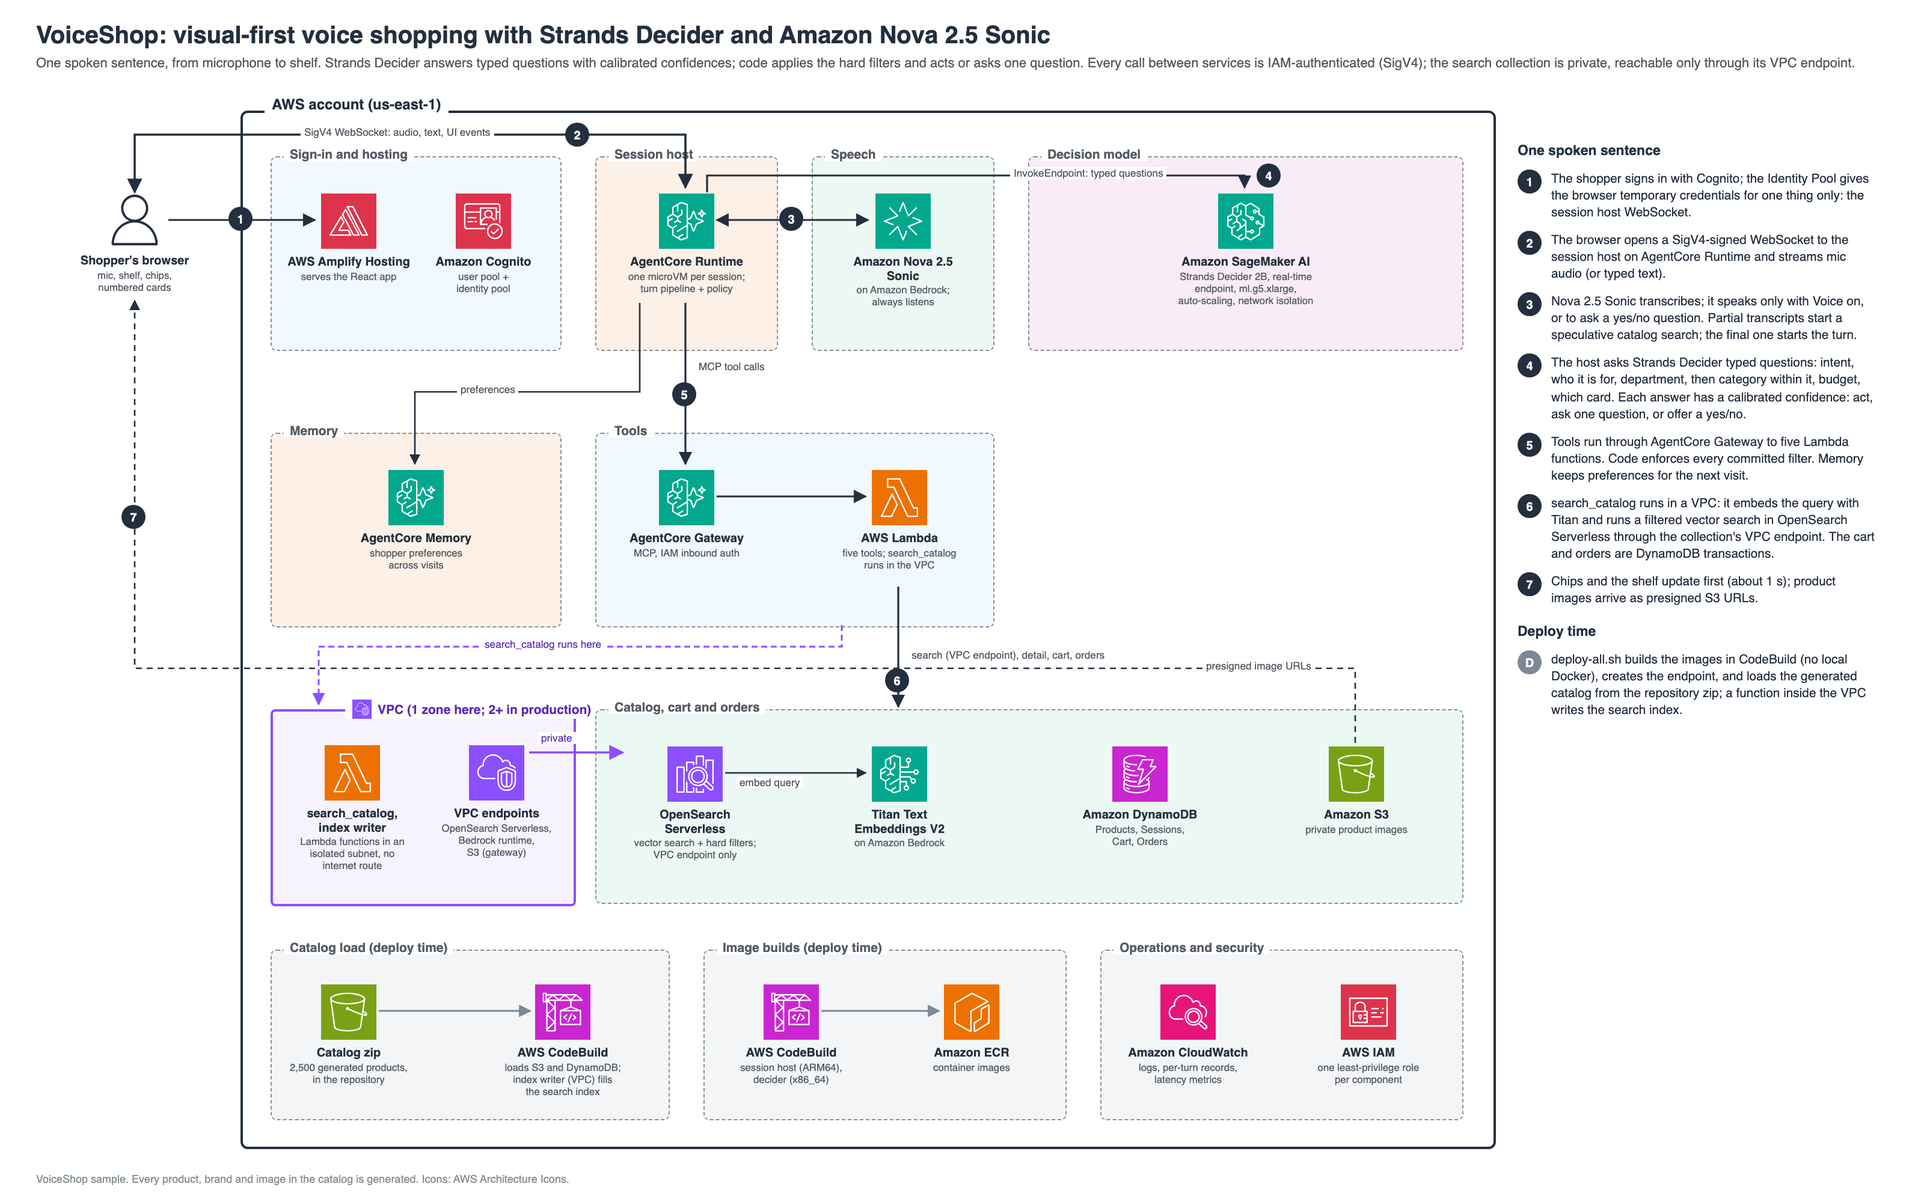
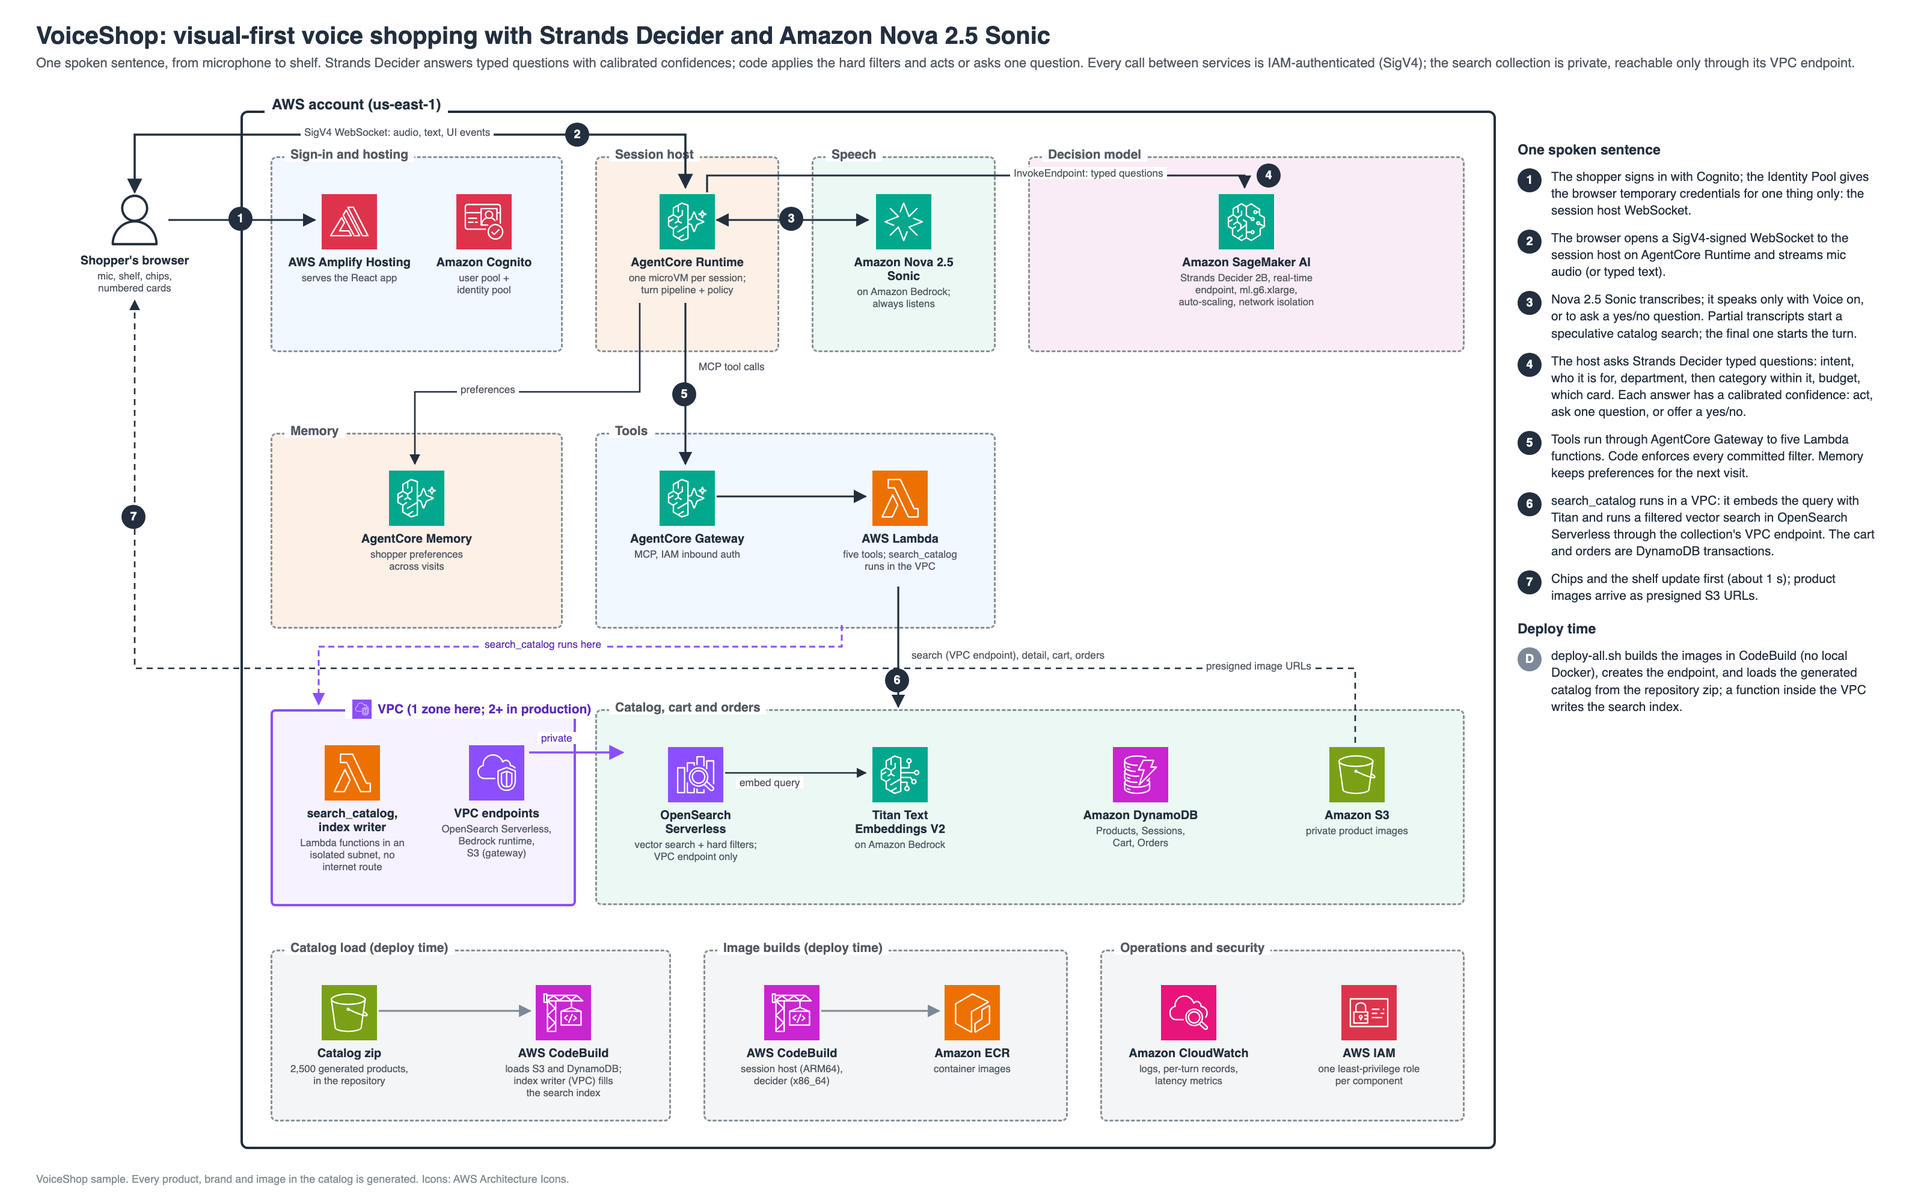
Default decider instance ml.g6.xlarge (same answers and latency as g5, $822 vs $1,028/month); README cart behavior
- deploy-all.sh, CDK app and cdk.json default g6.xlarge; g5.xlarge is the documented fallback
- ADR-22 amendment with the 2026-10-21 comparison; known issue: changing the type of a
  deployed endpoint needs the endpoint stack deleted first
- README: cost table (~$1,092/month), quota, cart (add another, remove one of several)
- architecture diagram re-rendered

diff --git a/backend/decider-runtime/cdk/test/decider-stacks.test.ts b/backend/decider-runtime/cdk/test/decider-stacks.test.ts
@@ -13,7 +13,7 @@ const endpoint = new DeciderEndpointStack(app, 'Endpoint', {
   repository: infra.repository,
   modelBucket: infra.modelBucket,
   imageTag: 'sm-test',
-  instanceType: 'g5.xlarge',
+  instanceType: 'g6.xlarge',
   minInstances: 1,
   maxInstances: 3,
   invocationsPerInstanceTarget: 120,
@@ -40,10 +40,10 @@ test('model runs with network isolation and no VPC, weights mounted from model/'
   });
 });
 
-test('endpoint uses ml.g5.xlarge with the minimum warm and long startup timeouts', () => {
+test('endpoint uses ml.g6.xlarge with the minimum warm and long startup timeouts', () => {
   t.hasResourceProperties('AWS::SageMaker::EndpointConfig', {
     ProductionVariants: [Match.objectLike({
-      InstanceType: 'ml.g5.xlarge', InitialInstanceCount: 1, ContainerStartupHealthCheckTimeoutInSeconds: 1800,
+      InstanceType: 'ml.g6.xlarge', InitialInstanceCount: 1, ContainerStartupHealthCheckTimeoutInSeconds: 1800,
     })],
   });
   t.hasResourceProperties('AWS::SageMaker::Endpoint', { EndpointName: 'voiceshop-decider' });

diff --git a/assets/architecture-diagram-source.html b/assets/architecture-diagram-source.html
@@ -66,7 +66,7 @@
   </div>
   <div class="group" style="left:855px;top:130px;width:360px;height:160px;background:#F9ECF6;">
     <div class="group-label" style="left:10px;top:-9px;">Decision model</div>
-    <div class="svc" style="left:80px;top:30px;width:200px;"><img src="icons/sagemaker.svg"/><div class="n">Amazon SageMaker AI</div><div class="d">Strands Decider 2B, real-time<br/>endpoint, ml.g5.xlarge,<br/>auto-scaling, network isolation</div></div>
+    <div class="svc" style="left:80px;top:30px;width:200px;"><img src="icons/sagemaker.svg"/><div class="n">Amazon SageMaker AI</div><div class="d">Strands Decider 2B, real-time<br/>endpoint, ml.g6.xlarge,<br/>auto-scaling, network isolation</div></div>
   </div>
 
   <!-- Row B -->

diff --git a/backend/decider-runtime/cdk/bin/app.ts b/backend/decider-runtime/cdk/bin/app.ts
@@ -41,7 +41,7 @@ const endpoint = new DeciderEndpointStack(app, 'VoiceShop-DeciderEndpointStack',
   repository: infra.repository,
   modelBucket: infra.modelBucket,
   imageTag: app.node.tryGetContext('deciderImageTag') || deciderImageTag(path.join(__dirname, '../../container')),
-  instanceType: app.node.tryGetContext('deciderInstanceType') || 'g5.xlarge',
+  instanceType: app.node.tryGetContext('deciderInstanceType') || 'g6.xlarge',
   minInstances,
   maxInstances,
   invocationsPerInstanceTarget: Number(app.node.tryGetContext('deciderInvocationsPerInstanceTarget') || 120),

diff --git a/README.md b/README.md
@@ -47,7 +47,7 @@ The architecture is split into six sections:
 - the **Amazon ECR** repository;
 - a CodeBuild job that copies the Strands Decider 2B weights from Hugging Face to Amazon S3 once;
 - a CodeBuild job that builds the inference container on an AWS Deep Learning Containers base image;
-- the **Amazon SageMaker AI** real-time endpoint `voiceshop-decider`: ml.g5.xlarge by default, auto-scaling, with network isolation.
+- the **Amazon SageMaker AI** real-time endpoint `voiceshop-decider`: ml.g6.xlarge (NVIDIA L4) by default, auto-scaling, with network isolation.
 
 **Section D: AgentCore Gateway.** A CDK stack creates the **Amazon Bedrock AgentCore Gateway** with MCP and IAM authentication. It exposes five Lambda functions as tools: `search_catalog`, `get_product_detail`, `add_to_cart`, `remove_from_cart` and `place_order`.
 
@@ -72,7 +72,7 @@ The session host (Python, FastAPI) runs the turn pipeline and the decision polic
 
 ### Cost
 
-You are responsible for the cost of the AWS services used while running this sample. As of October 2026, running it with the default settings in the US East (N. Virginia) Region costs approximately $1,297 per month for 3,000 shopping sessions. About 94% of that is fixed: the GPU instance behind the decider endpoint and the OpenSearch Serverless minimum both bill for every hour the sample is deployed, whether or not anyone is shopping. **Run `./cleanup-all.sh` when you finish testing or recording.**
+You are responsible for the cost of the AWS services used while running this sample. As of October 2026, running it with the default settings in the US East (N. Virginia) Region costs approximately $1,092 per month for 3,000 shopping sessions. About 93% of that is fixed: the GPU instance behind the decider endpoint and the OpenSearch Serverless minimum both bill for every hour the sample is deployed, whether or not anyone is shopping. **Run `./cleanup-all.sh` when you finish testing or recording.**
 
 We recommend creating a [Budget](https://docs.aws.amazon.com/cost-management/latest/userguide/budgets-managing-costs.html) through [AWS Cost Explorer](https://aws.amazon.com/aws-cost-management/aws-cost-explorer/) to help manage costs. Prices are subject to change. For full details, refer to the pricing webpage for each AWS service used in this sample.
 
@@ -82,7 +82,7 @@ The following table shows a sample monthly cost breakdown for the default parame
 
 | AWS service | Dimensions | Cost [USD] |
 | ----------- | ---------- | ---------- |
-| [Amazon SageMaker AI](https://aws.amazon.com/sagemaker/ai/pricing/) | Real-time endpoint, 1 × ml.g5.xlarge ($1.408/hour), 730 hours | $1,027.84 |
+| [Amazon SageMaker AI](https://aws.amazon.com/sagemaker/ai/pricing/) | Real-time endpoint, 1 × ml.g6.xlarge ($1.1267/hour), 730 hours | $822.49 |
 | [Amazon OpenSearch Serverless](https://aws.amazon.com/opensearch-service/pricing/) | Vector collection, standby replicas disabled: minimum 1 OCU (0.5 indexing + 0.5 search) at $0.24/OCU-hour, under 1 GB storage | $175.20 |
 | [AWS PrivateLink](https://aws.amazon.com/privatelink/pricing/) | 2 interface endpoints (OpenSearch Serverless, Bedrock runtime) in one Availability Zone, $0.01/hour each | $14.60 |
 | [Amazon Bedrock (Nova 2.5 Sonic)](https://aws.amazon.com/nova/pricing/) | Measured per session: about 1,230 speech input, 400 speech output, 2,000 text input and 300 text output tokens | $30.00 |
@@ -97,10 +97,10 @@ The following table shows a sample monthly cost breakdown for the default parame
 | [Amazon ECR](https://aws.amazon.com/ecr/pricing/) | Decider image (13.5 GB) and session host image | $1.40 |
 | [AWS Amplify](https://aws.amazon.com/amplify/pricing/) | Hosting: 5 GB storage, 15 GB bandwidth | $0.50 |
 | [Amazon CloudWatch](https://aws.amazon.com/cloudwatch/pricing/) | Logs and metrics for all services | $5.00 |
-| | **Estimated Total** | **~$1,297.30** |
+| | **Estimated Total** | **~$1,091.95** |
 
 **Notes:**
-- The decider endpoint is about 80% of the total. On ml.g6.xlarge (`--decider-instance-type g6.xlarge`, $1.1267/hour), it costs about $822 per month instead of $1,028.
+- The decider endpoint is about 75% of the total. ml.g6.xlarge is the smallest full-GPU G6 instance SageMaker AI offers for a real-time endpoint. The fallback ml.g5.xlarge (`--decider-instance-type g5.xlarge`, $1.408/hour) costs about $1,028 per month instead of $822, with the same answers and latency in our tests.
 - Usage-based costs are small: about $78 of the total for 3,000 sessions, mostly Nova 2.5 Sonic and AgentCore Runtime memory time. Turning spoken replies on raises the Nova 2.5 Sonic output-token cost.
 - The measured sessions were test sessions with spoken replies off, so speech output covers only yes/no confirmations. Longer sessions, or spoken replies on, raise the Nova 2.5 Sonic and AgentCore Runtime costs.
 - Each deploy also runs AWS CodeBuild jobs for the image builds and the catalog load (a few dollars per fresh deploy).
@@ -134,7 +134,7 @@ Install the following tools before deployment:
   - create AWS Lambda functions, Amazon DynamoDB tables, Amazon S3 buckets and Amazon ECR repositories;
   - create AWS CodeBuild projects, Amazon Cognito user pools and identity pools, and AWS Amplify apps.
 - Amazon Bedrock model access for **Amazon Nova 2.5 Sonic** and **Amazon Titan Text Embeddings V2**. Request access in the [Amazon Bedrock console](https://console.aws.amazon.com/bedrock/) if it is not already enabled. Anthropic Claude and Stability AI models are needed only to regenerate the catalog ([generator](backend/catalog-data/README.md#generator)).
-- Amazon SageMaker AI quota **"ml.g5.xlarge for endpoint usage"** of at least `--decider-max-instances` (default 1). Find it in [Service Quotas](https://console.aws.amazon.com/servicequotas/). For another `--decider-instance-type`, you need that type's quota instead. New accounts often start at 0. `deploy-all.sh` checks the quota before it deploys anything.
+- Amazon SageMaker AI quota **"ml.g6.xlarge for endpoint usage"** of at least `--decider-max-instances` (default 1). Find it in [Service Quotas](https://console.aws.amazon.com/servicequotas/). For another `--decider-instance-type`, you need that type's quota instead. New accounts often start at 0. `deploy-all.sh` checks the quota before it deploys anything.
 
 ### AWS CDK bootstrap
 
@@ -171,7 +171,7 @@ chmod +x deploy-all.sh cleanup-all.sh codebuild-scripts/build-image.sh
 
 **Optional parameters:**
 - `--user-name`: display name of the demo user (default `AppUser`). The sign-in username is always `AppUser`.
-- `--decider-instance-type`: the decider GPU instance, without `ml.` (default `g5.xlarge`; `g6.xlarge` and `g6e.xlarge` also work).
+- `--decider-instance-type`: the decider GPU instance, without `ml.` (default `g6.xlarge`; `g5.xlarge` and `g6e.xlarge` also work). To change the type of a deployed endpoint, see [Known issues](#known-issues).
 - `--decider-max-instances`: the upper bound for decider auto-scaling (default 1). It must not exceed your quota.
 - `--skip-catalog`: skip loading the catalog.
 
@@ -364,7 +364,7 @@ What you can do:
 - **More results and moving around.** "Show me more" adds the next 12 results, up to 49. "Scroll down" and "back to the top" move the page. "Close it" closes the open product.
 - **No match.** The closest items stay on screen, and the assistant offers to drop one filter. Say "yes" to widen the search.
 - **Yes/no questions.** They show Yes and No buttons. If the browser already allows the microphone for the site, it opens by itself so you can answer by voice.
-- **Cart.** Say "add it to my cart". Remove a line by voice ("remove the blouse from my cart") or with its ×. "Empty my cart" asks first.
+- **Cart.** Say "add it to my cart". If the item is already in the cart, the assistant asks "Should I add another one?" first. Remove an item by voice ("remove the blouse from my cart") or with its ×. When the cart holds more than one of an item, "remove one" takes out one and keeps the rest, and "remove both" takes out the line. "Empty my cart" asks first.
 - **Orders.** "Place my order" always asks "Should I place the order?" first. If the cart is empty, the assistant says so. An order is a DynamoDB record, and nothing is charged.
 - **Voice on / Voice off.** Spoken replies are off by default, and the chat shows the reply text instead. The header toggle turns spoken replies on. Yes/no confirmations are spoken either way.
 - **Behind the scenes.** Press **D**, or use **Debug overlay** in the footer, to see each sentence's decider questions and answers, catalog searches, DynamoDB writes and timings. **Pop out** moves the panel to its own window, for example to keep it beside the store while you record.
@@ -513,7 +513,8 @@ Strands Decider weights are licensed under Apache-2.0. Every product, brand, des
 - **The first request after a deploy is slow.** The first decider request can take several seconds while the GPU kernels compile, even after the pre-warm. Say one or two sentences before a demo.
 - **The mic does not open by itself for a yes/no question.** It opens automatically only after the browser has allowed the microphone for this site. Each new Amplify URL is a new site: click the mic once and allow it.
 - **No mic audio with a Bluetooth headset on macOS.** The browser may receive silence until the device is selected again. Re-select the headset as the input in the system sound settings or the browser, or use the built-in microphone.
-- **"InsufficientInstanceCapacity" when the endpoint is created.** AWS has no free GPUs of that type in the Region at the moment. Re-run with another type, for example `--decider-instance-type g6.xlarge`, or retry later.
+- **"InsufficientInstanceCapacity" when the endpoint is created.** AWS has no free GPUs of that type in the Region at the moment. Re-run with another type, for example `--decider-instance-type g5.xlarge`, or retry later.
+- **Changing `--decider-instance-type` on a deployed endpoint fails** with "must be deregistered as scalable targets with Application Auto Scaling before they can ... have their instance type updated". SageMaker does not change the instance type of an endpoint that has auto-scaling. Delete the endpoint stack first, then deploy with the new type: `cd backend/decider-runtime/cdk && npx cdk destroy VoiceShop-DeciderEndpointStack --force`, then `./deploy-all.sh --decider-instance-type <type>`. The decider is down for about 11 minutes.
 - **A step seems to hang for many minutes on a Mac.** The computer went to sleep. The scripts keep a Mac awake with `caffeinate`, but closing the lid on battery still sleeps it, so keep it open or on power.
 - **Credentials expire during a long run.** Use a profile that refreshes itself (IAM Identity Center or `credential_process`), and re-run the script. It continues where stacks are already deployed.
 - **The frontend says config values are missing.** The backend stacks are not deployed yet. Run `deploy-all.sh`.
@@ -521,7 +522,7 @@ Strands Decider weights are licensed under Apache-2.0. Every product, brand, des
 
 ### Additional considerations
 
-- **The GPU endpoint runs all the time.** The decider endpoint keeps at least one GPU instance running while it is deployed. For lower cost, use `--decider-instance-type g6.xlarge`, and clean up when you are not testing.
+- **The GPU endpoint runs all the time.** The decider endpoint keeps at least one GPU instance running while it is deployed. Clean up when you are not testing.
 - **Private search.** The search collection accepts requests only through its VPC endpoint, and each request must be SigV4-signed by a role named in a data access policy. Only the two functions that call it run in the VPC. The decider container has no network access at all ([ADR-32](docs/architecture-decisions.md#adr-32-private-search-collection)).
 - **Availability.** The search VPC uses one Availability Zone, and the decider scales to one instance by default. Use two or more zones and instances in production.
 - **Data retention.** The Sessions and Cart tables use DynamoDB TTL (`expiresAt`) to remove old items automatically.

diff --git a/docs/architecture-decisions.md b/docs/architecture-decisions.md
@@ -494,7 +494,7 @@ The AgentCore decider stacks, pool logic, measurement project and volume cleanup
 
 **Consequences.**
 
-- **Cost:** about 30% more per GPU-hour than AgentCore Instances. The warm minimum bills around the clock while deployed (~$822/month for one ml.g6.xlarge; about $1,028/month at $1.408/hour for the ml.g5.xlarge default since the 2026-10-19 amendment); `cleanup-all.sh` deletes it.
+- **Cost:** about 30% more per GPU-hour than AgentCore Instances. The warm minimum bills around the clock while deployed (~$822/month for one ml.g6.xlarge, the default again since the 2026-10-21 amendment; about $1,028/month at $1.408/hour for ml.g5.xlarge); `cleanup-all.sh` deletes it.
 - **Cold starts:** no shopper ever waits for one; scale-out adds capacity in minutes.
 - **Quota:** a new account's endpoint quota for the instance type may be 1, so `deciderMaxInstances` defaults to 1 until it is raised.
 - **Network:** the ECR/STS interface endpoints added for the capacity provider were not used by the endpoint and were removed. The whole VPC was removed later (ADR-26).
@@ -503,7 +503,9 @@ The AgentCore decider stacks, pool logic, measurement project and volume cleanup
 
 **Amendment (2026-10-19): default instance ml.g5.xlarge.** The first fresh deploy failed with InsufficientInstanceCapacity for ml.g6.xlarge in us-east-1. The default is now ml.g5.xlarge (NVIDIA A10G, 24 GB, $1.408/hour on-demand in us-east-1 against $1.1267 for ml.g6.xlarge), and `deploy-all.sh --decider-instance-type` picks another type; the quota check follows the chosen type. The latency numbers above were measured on ml.g6.xlarge.
 
-**Evidence.** AWS Price List API (EC2, AmazonSageMaker), 2026-10-18; AgentCore pricing page; docs/research.md "Instances lifecycle"; Service Quotas `L-D470D954` (ml.g6.xlarge) and `L-1928E07B` (ml.g5.xlarge, the default).
+**Amendment (2026-10-21): default instance ml.g6.xlarge again.** On the live endpoint, ml.g6.xlarge (NVIDIA L4) and ml.g5.xlarge (NVIDIA A10G) gave the same decider answers on a seven-turn replay, warm p50 185 ms against 191–202 ms, and turns of 0.40–1.54 s against 0.43–1.66 s, at $1.1267 against $1.408 per hour (about $822 against $1,028 per month). The default is ml.g6.xlarge; when it has no capacity, `--decider-instance-type g5.xlarge` is the fallback (README Known issues). Changing the type of an existing endpoint fails while auto-scaling is registered on it ("must be deregistered as scalable targets ... before they can ... have their instance type updated"), so a type change deletes and recreates `VoiceShop-DeciderEndpointStack`; a fresh deploy is not affected.
+
+**Evidence.** AWS Price List API (EC2, AmazonSageMaker), 2026-10-18; AgentCore pricing page; docs/research.md "Instances lifecycle"; Service Quotas `L-D470D954` (ml.g6.xlarge, the default) and `L-1928E07B` (ml.g5.xlarge).
 
 ---
 

diff --git a/backend/decider-runtime/README.md b/backend/decider-runtime/README.md
@@ -12,9 +12,9 @@ The model files (~4.8 GB) are uploaded once by `deploy-all.sh` to the model buck
 
 ## Scaling and cost
 
-- The endpoint keeps **one ml.g5.xlarge always running** by default while deployed (about $1.41/hour on-demand in us-east-1, ~$1,028/month; ml.g6.xlarge is about $1.13/hour, choose it with `--decider-instance-type g6.xlarge`), so no shopper waits for a cold start. Run `cleanup-all.sh` when you are done.
+- The endpoint keeps **one ml.g6.xlarge always running** by default while deployed (NVIDIA L4, about $1.13/hour on-demand in us-east-1, ~$822/month), so no shopper waits for a cold start. If ml.g6.xlarge has no capacity, use `--decider-instance-type g5.xlarge` (NVIDIA A10G, about $1.41/hour, the same answers and latency on 2026-10-21). Run `cleanup-all.sh` when you are done.
 - It scales out on invocations per instance (target 120 per minute, about half of one instance's capacity).
-- The scale-out cap defaults to **1**. Raise it with `./deploy-all.sh --decider-max-instances <n>`, after checking that your account's SageMaker quota **"ml.g5.xlarge for endpoint usage"** (Service Quotas, code `L-1928E07B`) is at least `<n>`. Other instance types use their own quota. New accounts often start at 0 or 1; request an increase in the Service Quotas console first. `deploy-all.sh` refuses a value above your quota.
+- The scale-out cap defaults to **1**. Raise it with `./deploy-all.sh --decider-max-instances <n>`, after checking that your account's SageMaker quota **"ml.g6.xlarge for endpoint usage"** (Service Quotas, code `L-D470D954`) is at least `<n>`. Other instance types use their own quota. New accounts often start at 0 or 1; request an increase in the Service Quotas console first. `deploy-all.sh` refuses a value above your quota.
 - Other knobs live in `cdk/cdk.json`: `deciderInstanceType`, `deciderMinInstances`, `deciderInvocationsPerInstanceTarget`.
 
 ## Measured (2026-10-18, us-east-1, ml.g6.xlarge, in-Region, p50)
